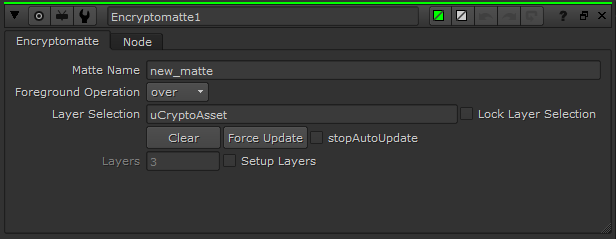
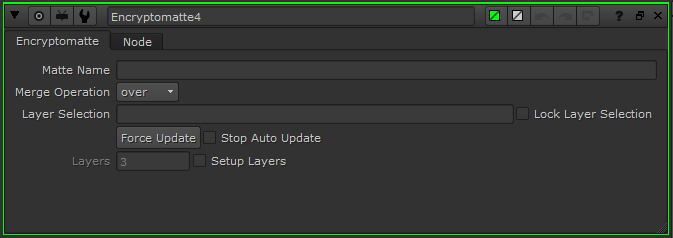
Added release notes for beta 5, updated documentation and screenshots

diff --git a/README.md b/README.md
@@ -55,6 +55,28 @@ Decoders:
 
 ## Release Notes
 
+1.2.0 (Beta 5):
+
+* Nuke - Added layer selection pulldown
+* Nuke - New Eyedropper "picker" knobs which use picker position and not sampled values
+ * No longer use Color knob's built in picker
+ * Fixed keying problems sometimes caused by GPU-enabled viewers
+ * Can pick mattes while viewing downstream node (or looking at the RGB/beauty)
+ * Enables new "Keyable Surface" options
+* Nuke - "Keyable Surface" option provides 3 modes of visual feedback
+ * "Edges" allows viewing input RGBA with borders around keyable regions
+ * "Colors" is an improved version of the old style random colors
+ * "None" allows viewing of input RGBA without borders, but with a visible highlight on selected areas
+ * Colors now generated dynamically, removing need for preview channels
+* Nuke - Enhancements for multi-channel inline workflow
+ * "Matte Output" knob enables output to a custom channel
+ * "Remove Channels" now defaults to false
+ * "Matte only" now causes mattes to be written to R, G, B, A in addition to specified output
+* Nuke - "Unpremultiply" option to unpremult output matte by input alpha
+* Nuke - Bug fixes
+ * Mixed selections of names and raw IDs now work correctly for all cases
+ * Encryptomatte retains its layer selection properly
+
 1.2.0 (Beta 4):
 
 * Fusion - Support for names containing special characters in selection lists
@@ -157,20 +179,25 @@ To get started:
 Psyop Cryptomatte Tab:
 * Picker Add: This adds "keyed" objects to the matte selection, meant to be used with Nuke's eyedropper. 
 * Picker Remove: This removes "keyed" objects from the matte selection, meant to be used with Nuke's eyedropper. 
-* Matte Only: This changes the output of the picker to output the matte in RGB channels as well. 
+* Keyable Surface: Controls whether or not previews of the matte boundaries are drawn. A pulldown controls how they are drawn. 
+ * "Edges" allows viewing input RGBA with borders around keyable regions
+ * "Colors" is random colors per matte
+ * "None" allows viewing of input RGBA without borders, but with a visible highlight on selected areas
+* Matte Only: Also write the matte to RGBA channels
 * Single Selection: Changes the gizmo behavior so that only one object may be selected at a time. 
 * Remove Channels: Removes the Cryptomatte channels so that downstream of the gizmo, the additional channels are not present. 
+* Matte Output: Which channel the extracted matte is written to.
+* Unpremultiply: Unpremults the extracted matte against by the alpha.
 * Matte List: A list of names to extract mattes from. This list may be modified in text form or using the Picker color knobs. 
 * Clear: Clears the matte list. 
 * Force Update: The python scripts keep Cryptomatte gizmos updated when inputs or relevant knobs are changed. If there's a case that it does not update, this button will manually update it. 
 * Stop Auto Update: Stops the automatic updating described above.
-* Layer Selection: If there are multiple cryptomattes, this is how you select the layer. This is filled in automatically, but may be changed manually. 
+* Layer Selection: If there are multiple Cryptomattes, this is how you select the layer. This is filled in automatically, but may be changed manually. 
 * Lock Layer Selection: Stops the automatic updating of layer selection, which occurs if the specified selection is not available. 
 * Expression: Internally the gizmo generates an expression to extract the matte. The expression is saved here. 
 
 Advanced Tab: 
-* Name Checker: Same as the picker knobs, except this allows you to key objects to see what they are, without changing your matte.
-* Keyed Name: The name keyed in using the name checker. 
+* Decryptomatte: Replaces gizmo with equivelant nodes
 * Unload Manifest: Generates a keyer for every name in the manifest. 
 * Force Update All Gizmos in Script: Same as "Force Update", but runs the force update functionality on all Gizmos in the script. 
 
